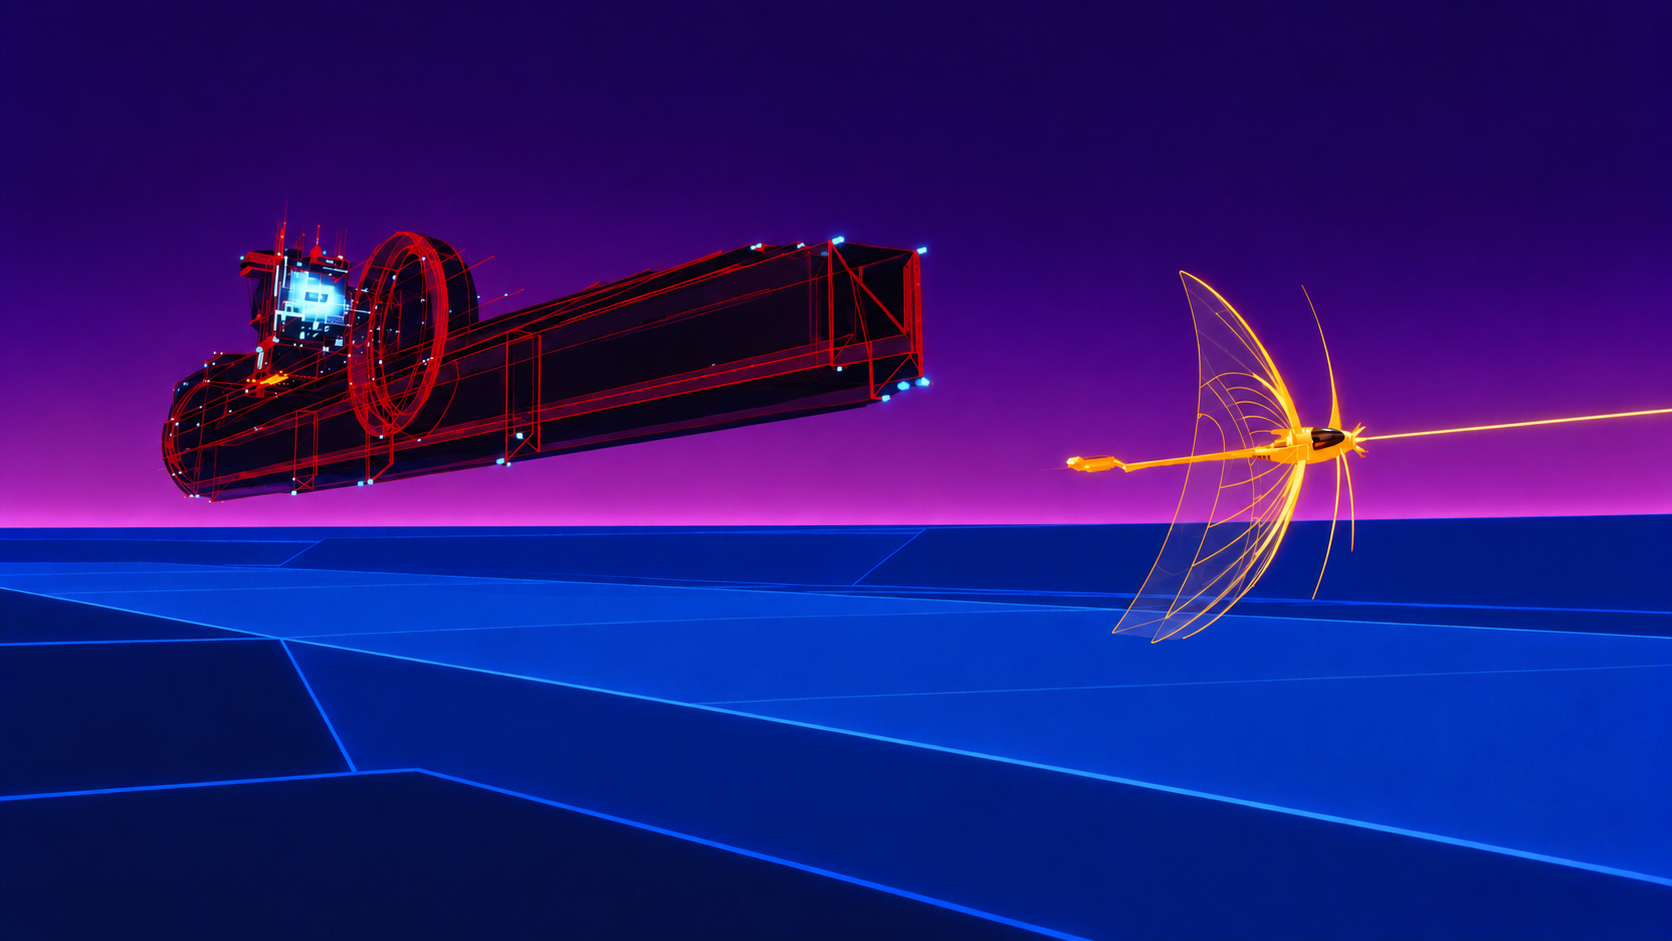
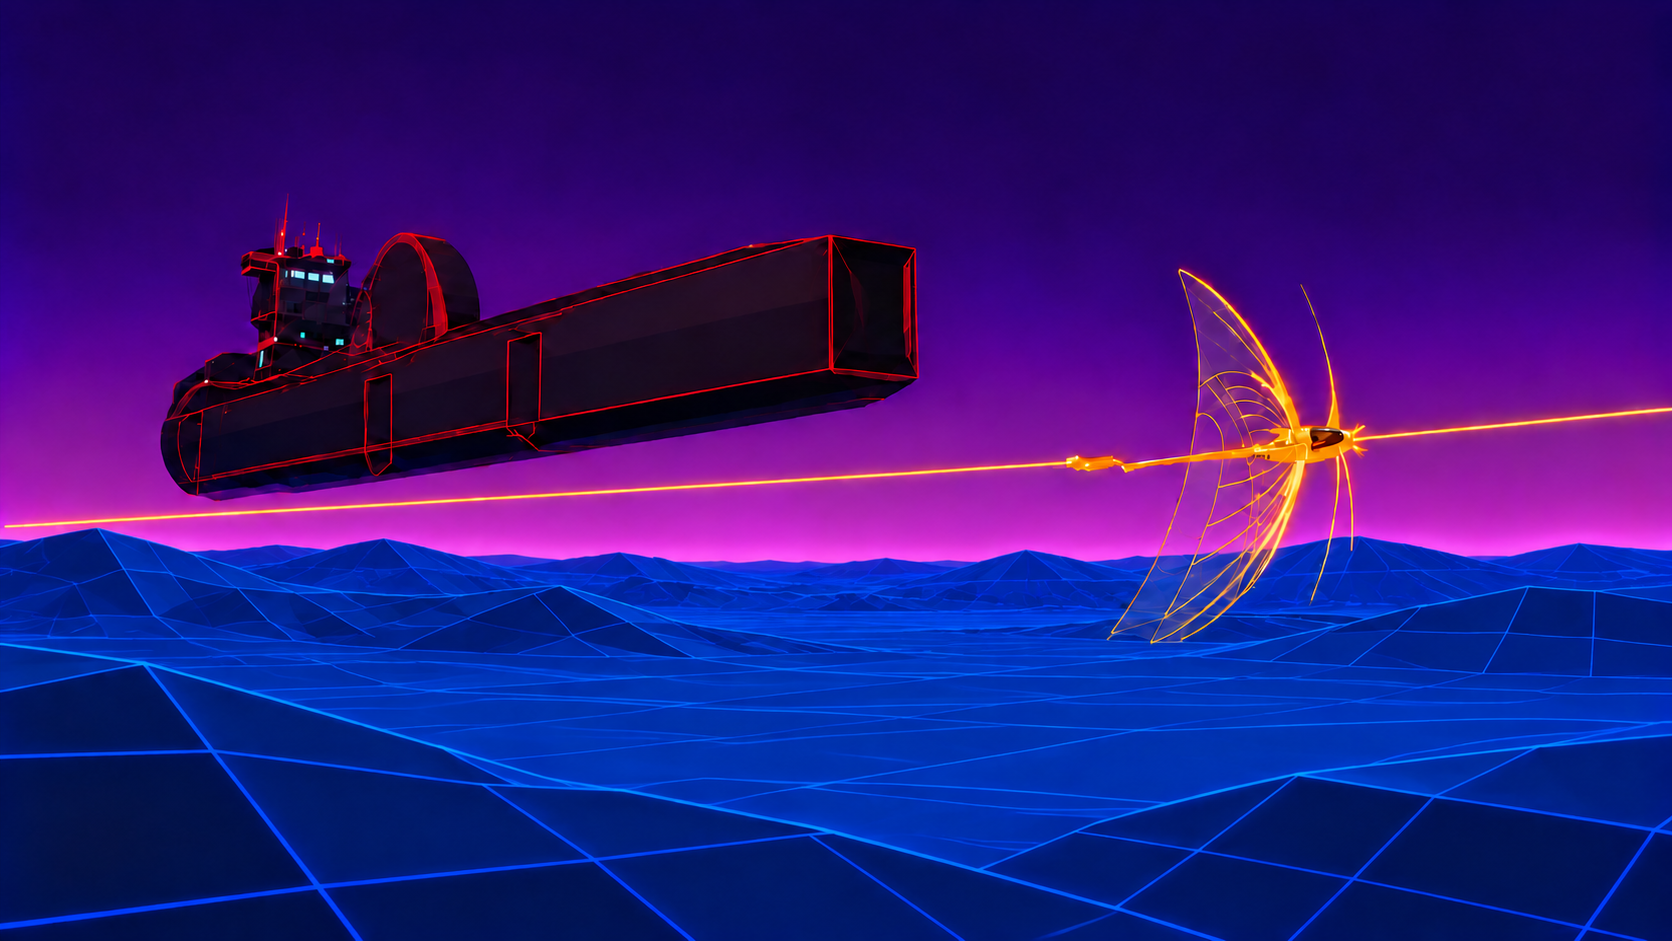
Refine carrier, extend transport beam, and add blue mountain terrain

diff --git a/README.md b/README.md
@@ -58,7 +58,7 @@ These are seven backgrounds for one theme; no workspace rules or assignments are
 
 ![Solar sailer pursued by Sark’s carrier](backgrounds/07-solar-sailer-pursuit.png)
 
-An additional chase composition with an amber-gold sailer and transport beam, a purple sky, blue terrain, and the carrier’s red accents.
+An additional chase composition with an amber-gold sailer, a transport beam extending ahead and behind, a purple sky, blue gridded mountains, and a solid dark carrier with red accents.
 
 ## Visual references
 
